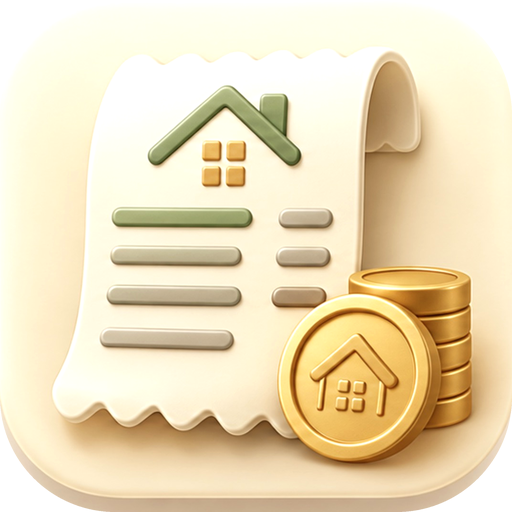
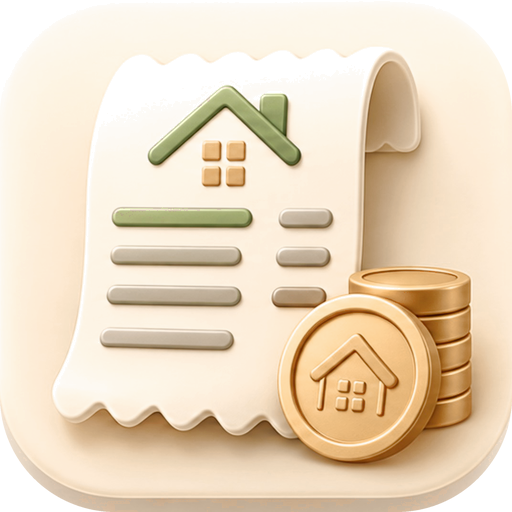
V21

Changed region(s): [[0.5312, 0.5, 0.9375, 0.9062], [0.375, 0.2812, 0.5, 0.375]]

diff --git a/index.html b/index.html
@@ -1347,6 +1347,42 @@ html,body,button,a,label,.cal-day,.cal-card,.dv-wd,.cal-mode,.cal-btn{touch-acti
 .tk-vprod img{width:72px;height:72px;border-radius:14px;object-fit:cover;cursor:zoom-in;box-shadow:0 2px 8px rgba(0,0,0,.1)}
 .tk-vprod span{font-size:13px;font-weight:850;color:var(--ink);opacity:.65}
 .tk-pop .tk-amt{font-size:18px}
+
+/* ══════════ V21 · ICONOS Y NAVEGACIÓN SIMÉTRICA ══════════ */
+.home-icons{display:grid!important;grid-template-columns:repeat(4,1fr);gap:10px!important;width:min(100%,420px);padding:0 14px;margin:6px auto 18px!important}
+.hi-btn{display:flex;flex-direction:column;align-items:center;gap:6px;border:none;background:transparent;padding:0;cursor:pointer;font:inherit;box-shadow:none!important}
+.hi-btn img{width:100%;max-width:66px;aspect-ratio:1;border-radius:22.5%;display:block;box-shadow:0 5px 0 rgba(118,68,34,.12),0 10px 18px rgba(80,40,10,.12);transition:transform .12s}
+.hi-btn:active img{transform:translateY(3px) scale(.97)}
+.hi-btn span{font-size:12.5px;font-weight:850;color:var(--ink);letter-spacing:.01em}
+.btn-ink-on .hi-btn span{color:var(--btn-ink)}
+.app-nav{display:grid;gap:8px;margin:0 0 10px}
+.nav-b{display:flex;flex-direction:column;align-items:center;justify-content:center;gap:4px;min-height:64px;padding:7px 4px 6px;border:none;border-radius:16px;background:rgba(255,255,255,.62);font:inherit;cursor:pointer;box-shadow:0 2px 8px rgba(60,40,30,.07)!important}
+.nav-b img{width:34px;height:34px;border-radius:22.5%;display:block}
+.nav-b span{font-size:11.5px;font-weight:850;color:var(--ink);white-space:nowrap}
+.btn-ink-on .nav-b span{color:var(--btn-ink)}
+.nav-b:active{transform:translateY(2px);background:rgba(255,255,255,.85)}
+.hl-center{justify-content:center!important}
+.hl-ic{width:34px;height:34px;border-radius:22.5%;box-shadow:0 2px 6px rgba(0,0,0,.1)}
+.hp-nav2{padding:calc(12px + env(safe-area-inset-top,0px)) 14px 0;flex-shrink:0}
+.hp-nav2 .app-nav{margin:0}
+#s-house .house-header{padding-top:6px!important}
+.tk-hrow{position:relative}
+.tk-hspace{width:44px;flex-shrink:0}
+.tk-hrow .tk-themebtn{margin-left:0}
+.tk-hrow .tk-htitle{flex:1;justify-content:center}
+#s-tickets .nav-b{background:color-mix(in srgb,var(--tk-card),transparent 15%)}
+#s-tickets .nav-b span{color:var(--tk-ink)}
+/* Buscar / PDF de tickets */
+.tks-tabs{display:grid;grid-template-columns:1fr 1fr;gap:4px;padding:4px;border-radius:16px;background:color-mix(in srgb,var(--agenda),#fff 45%)}
+.tks-tabs button{height:42px;border:none;border-radius:12px;background:transparent;font:inherit;font-size:14.5px;font-weight:900;color:var(--ink);cursor:pointer;box-shadow:none!important}
+.tks-tabs button.on{background:#fff;box-shadow:0 1px 4px rgba(0,0,0,.1)!important}
+.tks-range{display:grid;grid-template-columns:1fr 1fr;gap:8px}
+.tks-range label{display:flex;flex-direction:column;gap:4px;font-size:12.5px;font-weight:850;color:var(--ink)}
+.tks-range span{opacity:.6;padding-left:4px}
+.tks-range input{height:48px;border:2px solid #e4dcef;border-radius:14px;padding:0 10px;font:inherit;font-size:15px;font-weight:800;color:var(--ink);background:#fff;width:100%;min-width:0;box-sizing:border-box;-webkit-appearance:none;appearance:none}
+.tks-count{text-align:center;font-size:15px;font-weight:750;color:var(--ink);padding:6px 0}
+.tks-count span{opacity:.6}
+#tks-go:disabled{opacity:.45}
 </style>
 </head>
 <body>
@@ -1378,7 +1414,7 @@ html,body,button,a,label,.cal-day,.cal-card,.dv-wd,.cal-mode,.cal-btn{touch-acti
             onblur="saveAppTitle(this.textContent.trim())"
             onkeydown="if(event.key==='Enter'){event.preventDefault();this.blur()}"
             title="Toca para editar el título">Home</div>
-          <span class="ver-badge">V20</span>
+          <span class="ver-badge">V21</span>
         </div>
         <button class="brand-flip" style="perspective:none; grid-column: 3; align-self: center;" type="button" onclick="openCalc()" title="Calculadora">
           <span class="brand-flip-inner" style="transition: transform 0.1s;">
@@ -1389,22 +1425,19 @@ html,body,button,a,label,.cal-day,.cal-card,.dv-wd,.cal-mode,.cal-btn{touch-acti
       <div class="app-error" id="app-error"></div>
     </div>
     <div class="houses-grid" id="home-calendar-container"></div>
-    <div class="home-actions">
-      <button class="home-gear" onclick="openSettings()" aria-label="Ajustes" title="Ajustes">⚙</button>
-      <button class="home-tk" onclick="showTicketsScreen()" aria-label="Tickets" title="Tickets"><img src="icono_tickets.png" alt=""></button>
-      <button class="home-fab" id="home-lists" onclick="showListsScreen()">📝 LISTAS</button>
-      <button class="home-fab" id="home-fab" onclick="showHousesListScreen()">🏡 SITIOS</button>
+    <div class="home-actions home-icons">
+      <button class="hi-btn" id="hi-ajustes" onclick="openSettings()"><img src="icono_ajustes.png" alt=""><span>Ajustes</span></button>
+      <button class="hi-btn" id="hi-tickets" onclick="showTicketsScreen()"><img src="icono_tickets.png" alt=""><span>Tickets</span></button>
+      <button class="hi-btn" id="hi-listas" onclick="showListsScreen()"><img src="icono_listas.png" alt=""><span>Listas</span></button>
+      <button class="hi-btn" id="hi-sitios" onclick="showHousesListScreen()"><img src="icono_sitios.png" alt=""><span>Sitios</span></button>
     </div>
   </div>
 
   <!-- SCREEN 1.5: HOUSES LIST -->
   <div class="screen" id="s-houses-list">
     <div class="home-top">
-      <div class="hl-head">
-        <button class="hl-back" onclick="showHomeScreen()">‹ Agenda</button>
-        <div class="hl-title">Mis sitios</div>
-        <button class="hl-lists" onclick="showListsScreen()">📝 Listas</button>
-      </div>
+      <div id="nav-sitios"></div>
+      <div class="hl-head hl-center"><img class="hl-ic" src="icono_sitios.png" alt=""><div class="hl-title">Mis sitios</div></div>
     </div>
     <div class="houses-grid" id="houses-grid"></div>
     <div class="hl-tools"><button onclick="exportSyncAll()">⬇ Exportar</button><span>·</span><button onclick="openCopyright(event)">© Copy</button><span>·</span><button onclick="triggerImport()">⬆ Importar</button></div>
@@ -1418,13 +1451,13 @@ html,body,button,a,label,.cal-day,.cal-card,.dv-wd,.cal-mode,.cal-btn{touch-acti
 
   <!-- SCREEN 2: INSIDE HOUSE -->
   <div class="screen" id="s-tickets">
-    <div class="home-top"><div class="hl-head">
-      <button class="hl-back tk-back" onclick="showHomeScreen()">‹ Agenda</button>
+    <div class="home-top"><div id="nav-tickets"></div><div class="hl-head hl-center tk-hrow">
+      <span class="tk-hspace"></span>
       <div class="hl-title tk-htitle"><img src="icono_tickets.png" alt="">Tickets</div>
       <button class="tk-themebtn" onclick="openTkThemes()" aria-label="Tema de los tickets">🎨</button>
     </div></div>
     <div class="tk-main">
-      <div class="tk-search"><span>🔎</span><input id="tk-q" type="search" placeholder="Buscar ticket… (tienda, compra, importe)" oninput="tkSearch(this.value)" autocomplete="off"></div>
+      <div class="tk-search"><span>🔎</span><input id="tk-q" type="search" enterkeyhint="search" placeholder="Buscar ticket… (tienda, compra, importe)" oninput="tkSearch(this.value)" onkeydown="if(event.key==='Enter'){event.preventDefault();this.blur();}" onsearch="this.blur()" autocomplete="off"></div>
       <div id="tk-cal"></div>
       <div id="tk-list"></div>
     </div>
@@ -1432,16 +1465,13 @@ html,body,button,a,label,.cal-day,.cal-card,.dv-wd,.cal-mode,.cal-btn{touch-acti
   </div>
 
   <div class="screen" id="s-lists">
-    <div class="home-top"><div class="hl-head" id="ls-head"></div></div>
+    <div class="home-top"><div id="nav-lists"></div><div class="hl-head" id="ls-head"></div></div>
     <div class="ls-main" id="ls-main"></div>
     <div class="ls-bottom" id="ls-bottom"></div>
   </div>
 
   <div class="screen" id="s-house">
-    <div class="hp-nav">
-      <button onclick="showHomeScreen()">📅 Agenda</button>
-      <button onclick="showListsScreen()">📝 Listas</button>
-    </div>
+    <div class="hp-nav2" id="nav-house"></div>
     <div class="house-header">
       <button class="back-btn" onclick="houseBack()" aria-label="Volver">‹</button>
       <div class="house-hname" id="house-hname">Casa</div>
@@ -3039,7 +3069,7 @@ function renderLists(){
   if(CUR_LIST){return renderListDetail();}
   scr.style.background='';scr.style.removeProperty('--li-ink');
   document.body.style.background=UI.bg;
-  document.getElementById('ls-head').innerHTML=`<button class="hl-back" onclick="showHomeScreen()">‹ Agenda</button><div class="hl-title">Mis listas</div><button class="hl-lists" onclick="showHousesListScreen()">🏡 Sitios</button>`;
+  document.getElementById('ls-head').innerHTML=`<img class="hl-ic" src="icono_listas.png" alt=""><div class="hl-title">Mis listas</div>`;document.getElementById('ls-head').classList.add('hl-center');
   const cards=LISTS.map(l=>{const c=listCounts(l);
     return `<div class="hl-card ls-card" style="--hc-bg:${l.card};--hc-ink:${l.ink}" onclick="openList('${l.id}')">
       <div class="hl-pic ls-pic" style="background:${l.bg};color:${l.ink}">${c.pending?c.pending:'✓'}</div>
@@ -3056,6 +3086,7 @@ function renderListDetail(focus){
   const scr=document.getElementById('s-lists');
   scr.style.background=l.bg;document.body.style.background=l.bg;scr.style.setProperty('--li-bg',l.bg);
   scr.style.setProperty('--li-ink',l.ink);scr.style.setProperty('--li-card',l.card);
+  document.getElementById('ls-head').classList.remove('hl-center');
   document.getElementById('ls-head').innerHTML=`<button class="hl-back" onclick="CUR_LIST=null;renderLists()">‹ Listas</button><div class="hl-title li-title">${esc(l.name)}</div><button class="hp-edit li-edit" onclick="openListEditor('${l.id}')" aria-label="Editar lista">✏</button>`;
   const items=l.items||[];
   const pend=items.filter(i=>!i.done).sort((a,b)=>(a.order||0)-(b.order||0));
@@ -5786,7 +5817,7 @@ function calendarSearchPeriodTitle(){
   if(CAL_MODE==='year')return `Año ${new Date().getFullYear()}`;
   return calMonthName(CAL_DATE.getFullYear(),CAL_DATE.getMonth());
 }
[3 lines of base64/hex data omitted]
 function makeCalendarColorPdfStage(color,results){
   const period=calendarSearchPeriodTitle();
@@ -7184,6 +7215,126 @@ async function exportSyncAll(){
   window.__TK_EXPORT=tickets;exportSync();window.__TK_EXPORT=null;
 }
 
+
+// ══════════════════════════════════════════════
+// V21 · NAVEGACIÓN CON ICONOS (simétrica en todas las pantallas)
+// ══════════════════════════════════════════════
+const NAV_ITEMS={
+  agenda:{ic:'icono_agenda.png',l:'Agenda',go:"showHomeScreen()"},
+  tickets:{ic:'icono_tickets.png',l:'Tickets',go:"showTicketsScreen()"},
+  listas:{ic:'icono_listas.png',l:'Listas',go:"showListsScreen()"},
+  sitios:{ic:'icono_sitios.png',l:'Sitios',go:"showHousesListScreen()"},
+  buscar:{ic:'icono_buscar.png',l:'Buscar · PDF',go:"openTkSearchPdf()"},
+};
+function navHtml(keys){
+  return `<nav class="app-nav" style="grid-template-columns:repeat(${keys.length},1fr)">${keys.map(k=>{const n=NAV_ITEMS[k];return `<button class="nav-b" onclick="${n.go}"><img src="${n.ic}" alt=""><span>${n.l}</span></button>`;}).join('')}</nav>`;
+}
+function fillNavs(){
+  const set=(id,keys)=>{const el=document.getElementById(id);if(el)el.innerHTML=navHtml(keys);};
+  set('nav-lists',['agenda','tickets','sitios']);
+  set('nav-sitios',['agenda','tickets','listas']);
+  set('nav-house',['agenda','tickets','listas']);
+  set('nav-tickets',['agenda','listas','sitios','buscar']);
+}
+// Los botones Listas/Sitios/Ajustes ya son iconos: sus colores en Ajustes no se usan
+(function(){for(const k of ['listas','casas','gear']){const i=UI_ROWS.findIndex(r=>r.key===k);if(i>=0)UI_ROWS.splice(i,1);}})();
+
+// ══════════════════════════════════════════════
+// V21 · TICKETS: buscar por fechas o por nombre y crear un PDF bonito
+// ══════════════════════════════════════════════
+let TKS=null;
+function openTkSearchPdf(){
+  const now=new Date();
+  const first=new Date(now.getFullYear(),now.getMonth(),1);
+  TKS=TKS||{mode:'fechas',from:calDateKey(first),to:calDateKey(now),q:''};
+  renderTkSearchPdf();
+}
+function tkPreset(p){
+  const n=new Date();let a,b;
+  if(p==='mes'){a=new Date(n.getFullYear(),n.getMonth(),1);b=new Date(n.getFullYear(),n.getMonth()+1,0);}
+  else if(p==='pasado'){a=new Date(n.getFullYear(),n.getMonth()-1,1);b=new Date(n.getFullYear(),n.getMonth(),0);}
+  else if(p==='visto'){a=new Date(TK_MONTH.getFullYear(),TK_MONTH.getMonth(),1);b=new Date(TK_MONTH.getFullYear(),TK_MONTH.getMonth()+1,0);}
+  else{a=new Date(n.getFullYear(),0,1);b=new Date(n.getFullYear(),11,31);}
+  TKS.from=calDateKey(a);TKS.to=calDateKey(b);renderTkSearchPdf();
+}
+function tkSearchResults(){
+  if(!TKS)return [];
+  let r=TK_LIST.slice();
+  if(TKS.mode==='fechas')r=r.filter(t=>t.date>=TKS.from&&t.date<=TKS.to);
+  else{const q=normSearch(TKS.q||'');if(!q)return [];r=r.filter(t=>normSearch(t.title||'').includes(q));}
+  return r.sort((a,b)=>a.date<b.date?-1:a.date>b.date?1:(a.created||0)-(b.created||0));
+}
+function renderTkSearchPdf(){
+  const q=document.getElementById('tks-q');if(q)TKS.q=q.value;
+  const res=tkSearchResults(),tot=res.reduce((s,t)=>s+(t.amount||0),0);
+  const fechas=TKS.mode==='fechas';
+  openPop(`<div class="tk-pop-ic"><img src="icono_buscar.png" alt=""></div>
+    <h3 class="pop-h tk-center">¿Qué quieres buscar?</h3>
+    <div class="tks-tabs"><button class="${fechas?'on':''}" onclick="TKS.mode='fechas';renderTkSearchPdf()">📅 Por fechas</button><button class="${!fechas?'on':''}" onclick="TKS.mode='nombre';renderTkSearchPdf()">🔤 Por nombre</button></div>
+    ${fechas?`
+      <div class="tk-chips"><button onclick="tkPreset('visto')">Mes que veo</button><button onclick="tkPreset('mes')">Este mes</button><button onclick="tkPreset('pasado')">Mes pasado</button><button onclick="tkPreset('anio')">Este año</button></div>
+      <div class="tks-range"><label><span>Desde</span><input type="date" value="${TKS.from}" onchange="if(this.value){TKS.from=this.value;renderTkSearchPdf()}"></label><label><span>Hasta</span><input type="date" value="${TKS.to}" onchange="if(this.value){TKS.to=this.value;renderTkSearchPdf()}"></label></div>`
+    :`<input class="sh-input" id="tks-q" type="search" enterkeyhint="search" placeholder="Ej.: Mercadona, farmacia, zapatillas…" value="${esc(TKS.q).replace(/"/g,'&quot;')}" oninput="TKS.q=this.value;tkSearchCount()" onkeydown="if(event.key==='Enter'){this.blur();renderTkSearchPdf()}" autocomplete="off">`}
+    <div class="tks-count" id="tks-count">${tksCountHtml(res,tot)}</div>
+    <div class="pop-row"><button class="pop-btn" onclick="closePop()">Cerrar</button><button class="pop-btn main" id="tks-go" onclick="exportTicketsPDF(this)" ${res.length?'':'disabled'}>📄 Crear PDF</button></div>`);
+  document.querySelector('#pop-ov .pop')?.classList.add('tk-pop');
+}
+function tksCountHtml(res,tot){return res.length?`<b>${res.length} ${res.length===1?'ticket':'tickets'}</b>${tot?` · Total <b>${tkMoney(tot)}</b>`:''}`:`<span>${TKS.mode==='nombre'&&!TKS.q.trim()?'Escribe un nombre para buscar':'No hay tickets con esta búsqueda'}</span>`;}
+function tkSearchCount(){const res=tkSearchResults(),tot=res.reduce((s,t)=>s+(t.amount||0),0);const c=document.getElementById('tks-count');if(c)c.innerHTML=tksCountHtml(res,tot);const g=document.getElementById('tks-go');if(g)g.disabled=!res.length;}
+function tkPdfStage(res){
+  const th=tkTheme();
+  const tot=res.reduce((s,t)=>s+(t.amount||0),0);
+  const crit=TKS.mode==='fechas'?`Del ${new Date(TKS.from+'T12:00').toLocaleDateString('es-ES',{day:'numeric',month:'long',year:'numeric'})} al ${new Date(TKS.to+'T12:00').toLocaleDateString('es-ES',{day:'numeric',month:'long',year:'numeric'})}`:`Búsqueda: «${TKS.q.trim()}»`;
+  const st=document.createElement('div');
+  Object.assign(st.style,{position:'absolute',left:'-10000px',top:'0',width:'794px',minHeight:'1123px',padding:'40px 42px',background:`linear-gradient(180deg,#ffffff,${th.bg})`,color:th.ink,fontFamily:'Arial, Helvetica, sans-serif'});
+  // agrupar por mes
+  const groups=[];res.forEach(t=>{const k=t.date.slice(0,7);let g=groups.find(x=>x.k===k);if(!g){g={k,items:[]};groups.push(g);}g.items.push(t);});
+  const row=t=>`<tr>
+      <td style="padding:9px 8px;border-bottom:1px solid ${th.soft};width:64px">${t.thumb?`<img src="${t.thumb}" style="width:52px;height:52px;object-fit:cover;border-radius:10px;display:block">`:`<div style="width:52px;height:52px;border-radius:10px;background:${th.soft};display:flex;align-items:center;justify-content:center;font-size:22px">🧾</div>`}</td>
+      <td style="padding:9px 8px;border-bottom:1px solid ${th.soft};font-size:13px;font-weight:700;white-space:nowrap;color:${th.ink};opacity:.75">${new Date(t.date+'T12:00').toLocaleDateString('es-ES',{weekday:'short',day:'numeric',month:'short'})}</td>
+      <td style="padding:9px 8px;border-bottom:1px solid ${th.soft};font-size:15px;font-weight:800">${esc(t.title||'Ticket')}${t.prodThumb?`<img src="${t.prodThumb}" style="width:30px;height:30px;object-fit:cover;border-radius:7px;vertical-align:middle;margin-left:8px">`:''}</td>
+      <td style="padding:9px 8px;border-bottom:1px solid ${th.soft};font-size:15px;font-weight:900;text-align:right;white-space:nowrap;color:${th.acc}">${t.amount!=null?tkMoney(t.amount):'—'}</td></tr>`;
+  st.innerHTML=`
+    <div style="display:flex;align-items:center;justify-content:space-between;gap:20px;padding-bottom:18px;border-bottom:4px solid ${th.acc}">
+      <div style="display:flex;align-items:center;gap:16px">
+        <img src="icono_tickets.png" style="width:70px;height:70px;border-radius:16px">
+        <div><div style="font-size:30px;font-weight:900;line-height:1.1">Tickets</div>
+        <div style="margin-top:6px;font-size:14px;font-weight:700;opacity:.75">${esc(crit)}</div></div>
+      </div>
+      <div style="display:flex;align-items:center;gap:10px"><img src="${PDF_SEARCH_LOGO}" style="width:56px;height:56px;border-radius:13px;object-fit:cover"><img src="${PDF_SEARCH_SIGNATURE}" style="width:96px;height:46px;object-fit:contain;background:#fff;border-radius:10px;padding:4px"></div>
+    </div>
+    <div style="display:flex;gap:12px;margin:20px 0 6px">
+      <div style="flex:1;padding:14px 16px;border-radius:14px;background:#fff;border:2px solid ${th.soft}"><div style="font-size:12px;font-weight:800;opacity:.6">TICKETS</div><div style="font-size:26px;font-weight:900">${res.length}</div></div>
+      <div style="flex:1;padding:14px 16px;border-radius:14px;background:${th.acc};color:#fff"><div style="font-size:12px;font-weight:800;opacity:.85">TOTAL</div><div style="font-size:26px;font-weight:900">${tkMoney(tot)||'0,00 €'}</div></div>
+    </div>
+    ${groups.map(g=>{const sub=g.items.reduce((s,t)=>s+(t.amount||0),0);const [y,m]=g.k.split('-').map(Number);
+      return `<div style="margin-top:18px;padding:14px 14px 8px;border-radius:16px;background:#fff;box-shadow:0 2px 0 ${th.soft}">
+        <div style="display:flex;justify-content:space-between;align-items:baseline;padding:0 8px 6px"><div style="font-size:18px;font-weight:900;text-transform:capitalize">${calMonthOnly(y,m-1)} ${y}</div><div style="font-size:14px;font-weight:800;opacity:.7">${g.items.length} ${g.items.length===1?'ticket':'tickets'}</div></div>
+        <table style="width:100%;border-collapse:collapse;text-align:left">${g.items.map(row).join('')}
+          <tr><td colspan="3" style="padding:11px 8px;font-size:14px;font-weight:900;text-align:right">Subtotal</td><td style="padding:11px 8px;font-size:16px;font-weight:900;text-align:right;white-space:nowrap;color:${th.acc}">${tkMoney(sub)||'0,00 €'}</td></tr>
+        </table></div>`;}).join('')}
+    <div style="margin-top:22px;display:flex;justify-content:flex-end"><div style="padding:14px 20px;border-radius:14px;background:${th.ink};color:#fff;font-size:20px;font-weight:900">Total: ${tkMoney(tot)||'0,00 €'}</div></div>
+    <div style="margin-top:26px;text-align:center;font-size:11px;font-weight:700;opacity:.5">HOME · ${new Date().toLocaleDateString('es-ES',{day:'numeric',month:'long',year:'numeric'})}</div>`;
+  return st;
+}
+async function exportTicketsPDF(btn){
+  const res=tkSearchResults();if(!res.length)return;
+  const old=btn?.textContent;let stage=null;
+  if(btn){btn.textContent='Creando PDF…';btn.disabled=true;}
+  try{
+    await ensurePdfLibraries();stage=tkPdfStage(res);document.body.appendChild(stage);
+    await new Promise(requestAnimationFrame);await waitForPdfImages(stage);
+    const canvas=await html2canvas(stage,{useCORS:true,scale:2,backgroundColor:'#ffffff'});
+    const {jsPDF}=window.jspdf;const pdf=new jsPDF('p','mm','a4');
+    addCanvasPages(pdf,canvas,.9);
+    const name=pdfSafeName('tickets-'+(TKS.mode==='fechas'?TKS.from+'-a-'+TKS.to:TKS.q.trim()))+'.pdf';
+    closePop();showPdfReady(URL.createObjectURL(pdf.output('blob')),name);
+  }catch(e){logAppError('No he podido crear el PDF de los tickets.',e);if(btn){btn.textContent=old;btn.disabled=false;}}
+  finally{if(stage)stage.remove();}
+}
+
+fillNavs();
+
 init().catch(err=>{
   bootStep('debug-start',false,'error');
   bootStep('debug-ui',false,'error');
@@ -7254,7 +7405,7 @@ if ('serviceWorker' in navigator) {
 </div>
 
 <div class="app-footer" onclick="openCopyright(event)">
-  <span class="ft-copy">© 2025–Present Elisabeth Altarriba</span><span class="ft-ver">V20</span>
+  <span class="ft-copy">© 2025–Present Elisabeth Altarriba</span><span class="ft-ver">V21</span>
 </div>
 
 <script>

diff --git a/sw.js b/sw.js
@@ -1,5 +1,5 @@
 // HOME · service worker V10: funciona sin conexión
-const CACHE_NAME = 'home-cache-v20-2026-10-26';
+const CACHE_NAME = 'home-cache-v21-2026-10-26';
 const CORE = [
   './',
   './index.html',
@@ -9,7 +9,12 @@ const CORE = [
   './iconocalcu.png',
   './icono_tickets.png',
   './apple-touch-icon.png',
-  './icon-512.png'
+  './icon-512.png',
+  './icono_listas.png',
+  './icono_sitios.png',
+  './icono_ajustes.png',
+  './icono_agenda.png',
+  './icono_buscar.png'
 ];
 // Librerías para hacer PDF: se guardan también para poder usarlas sin internet
 const CDN = [

diff --git a/CHANGELOG.md b/CHANGELOG.md
@@ -8,6 +8,20 @@ Este archivo mantiene un registro de todas las modificaciones y tareas pendiente
 
 ## Cambios Realizados
 
+- **(2026-10-26) [V21] Iconos marrón claro, navegación con iconos y PDF de tickets:**
+  - **Iconos menos amarillos:** el fondo crema amarillento de los iconos (casa, calculadora, tickets) pasa a **marrón claro**.
+  - **Iconos nuevos** con el mismo estilo de relieve que el de tickets: **Listas** (portapapeles con casillas), **Sitios** (marcador con una casita), **Ajustes** (engranaje), **Agenda** (calendario) y **Buscar · PDF** (documento con lupa).
+  - **Bajo la agenda:** cuatro iconos iguales, alineados y simétricos, con su nombre debajo (Ajustes · Tickets · Listas · Sitios). Sustituyen a los botones de texto.
+  - **Misma barra de iconos arriba en todas las pantallas:**
+    - Mis listas: Agenda · Tickets · Sitios.
+    - Mis sitios y dentro de cada casa: Agenda · Tickets · Listas.
+    - Tickets: Agenda · Listas · Sitios · Buscar · PDF.
+    Los botones son del mismo tamaño y quedan simétricos. Debajo, el título con su icono, centrado.
+  - **Tickets · buscar:** al pulsar «Buscar» en el teclado, el teclado se esconde solo.
+  - **Tickets · Buscar · PDF:** una ventana pregunta si buscar **por fechas** (con atajos «Mes que veo», «Este mes», «Mes pasado», «Este año» o desde/hasta) o **por nombre**. Enseña al momento cuántos tickets hay y el total. «📄 Crear PDF» hace un PDF bonito con los colores del tema de tickets: cabecera con iconos y logo, recuadros de número de tickets y total, tickets agrupados por mes con miniatura, fecha, concepto, importe y **subtotal** de cada mes, y **total** final. Se puede imprimir o guardar, y con «Salir» vuelves a Tickets.
+  - En ⚙ Ajustes se quitan los colores de los botones Listas, Sitios y ⚙, que ahora son iconos.
+  - Versión **V21**. `sw.js`: caché `home-cache-v21-2026-10-26` con los iconos nuevos.
+
 - **(2026-10-26) [V20] Tickets, iconos nuevos y listas más cómodas:**
   - **Tickets** (nuevo apartado, con su icono al lado de ⚙, bajo la agenda):
     - Un calendario mensual propio. Los días con tickets enseñan la miniatura del ticket y cuántos hay. Arriba, el total de tickets e importes del mes.

diff --git a/NOTAS.md b/NOTAS.md
@@ -130,4 +130,11 @@ Aquí se apunta todo lo que Elisabeth pide o comenta sobre la app, para no perde
    - pasar de mes **como una hoja**.
    → Hecho.
 3. **Iconos nuevos** para la casa, la calculadora y el botón de tickets, con las **esquinas redondeadas** y **un poco más luminosos**. → Hecho.
-- Pendiente de aclarar: «pasar entre sitios como una hoja». ¿Se refiere a pasar de una casa a otra en Mis Sitios, o a otra cosa?
+- «Pasar entre sitios como una hoja»: aclarado, no hace falta; los sitios se quedan como están.
+
+### Peticiones para la V21
+1. Iconos: **menos amarillo y más marrón claro**. → Hecho.
+2. En tickets, al buscar, que el **teclado se esconda solo**. → Hecho.
+3. En la línea de Agenda, botones para ir a **Listas y Sitios**, **simétricos y alineados**. → Hecho (barra de iconos igual en todas las pantallas).
+4. En esa línea, un botón para **buscar por fechas o por nombre** y hacer un **PDF bonito** con precios y totales, para imprimir, y poder cerrarlo y volver a tickets. → Hecho.
+5. **Iconos de Listas y Sitios** al estilo del de tickets, para sustituir todos los botones de Listas y Sitios. Que todo quede **alineado, con diseño y simétrico**. → Hecho (además, iconos de Ajustes, Agenda y Buscar a juego).
